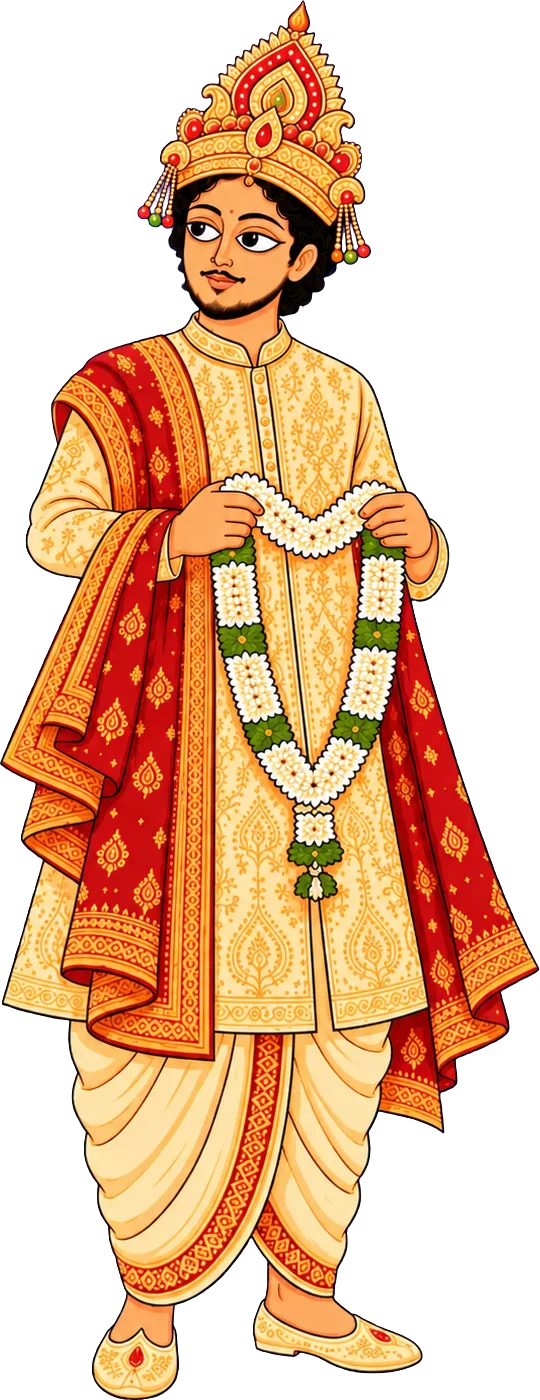
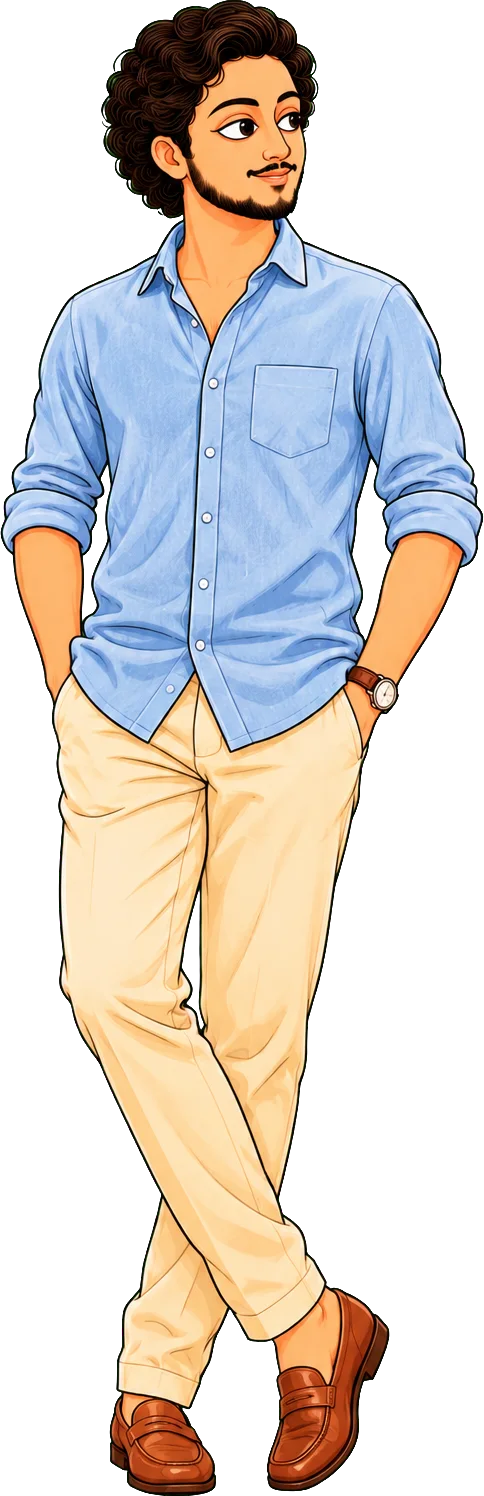
Sangeet, Wedding, Reception and the first page on the new generated art
- Sangeet: fairy-lit garden behind the stage, a dance floor, the dhol and harmonium on laptops
- Wedding: Kolkata and Jamshedpur skyline behind the stage, a red carpet with alpana
- Reception: the hall wall, jasmine strands, the stage drawn small under a silk canopy, flower urns
- First page: the couple in everyday clothes
- Gold sparkles over every night sky; art script knows floors, walls, ledges and tiles

diff --git a/src/scenes/scenes.js b/src/scenes/scenes.js
@@ -172,6 +172,11 @@ export const SCENES = [
     // at the bottom, candle stands at the sides, the couple dancing in front
     id: 'sangeet', sky: STAGE, tone: 'stage', stars: true, text: { top: 250 }, leave: 'cut', hold: 4,
     layers: [
+      // a garden of fairy-lit trees behind the stage, the dance floor in front of it, and on laptops the dhol and
+      // harmonium beside the groom
+      L('sangeet-garden', 1500, 645, { y: 150, z: 1 }),
+      L('sangeet-floor', 2200, 267, { z: 1, full: true, kind: 'ground' }),
+      L('sangeet-music', 420, 189, { y: 40, x: -720, z: 4 }),
       L('sangeet-hanging', 1300, 375, { full: true, ay: 't', y: -12, z: 3 }),
       L('sangeet-stage-small', 1250, 668, { y: 330, z: 2 }),
       L('drape-l', 330, 790, { art: 'sangeet-drape', ax: 'l', x: -60, ay: 't', y: -10, z: 2 }),
@@ -183,6 +188,7 @@ export const SCENES = [
     ],
     play(tl, q, root) {
       slide(tl, q, 'sangeet-hanging', 'up', 0, 1.1)
+      slide(tl, q, 'sangeet-music', 'left', 0.6, 1.1)
       slide(tl, q, 'drape-l', 'left', 0.2, 1.2)
       slide(tl, q, 'drape-r', 'right', 0.2, 1.2)
       slide(tl, q, ['candle-l'], 'left', 0.1, 1.1)
@@ -202,7 +208,9 @@ export const SCENES = [
     layers: [
       L('cloud-l', 380, 167, { art: 'cloud-night', ax: 'l', x: -150, y: 1250, z: 1 }),
       L('cloud-r', 440, 193, { art: 'cloud-night', ax: 'r', x: -190, y: 1080, z: 1, flip: true }),
-      L('carpet', 3400, 255, { z: 2, full: true, kind: 'ground' }),
+      // the bride's Kolkata and the groom's Jamshedpur on the skyline behind the stage, the red carpet with its alpana
+      L('wedding-city-art', 1800, 495, { y: 200, z: 2 }),
+      L('wedding-floor', 2200, 330, { z: 2, full: true, kind: 'ground' }),
       L('wedding-stage-small', 1000, 621, { y: 330, z: 3 }),
       L('wedding-hanging', 1100, 350, { full: true, ay: 't', y: -24, z: 4 }),
       L('drape-l', 330, 842, { art: 'wedding-drape', ax: 'l', x: -60, ay: 't', y: -10, z: 3 }),
@@ -226,27 +234,35 @@ export const SCENES = [
     idle: (q) => [...cloudIdle(q), ...petals(q), ...drapes(q), idle.sway(q, 'banana-l', 1, 3.4, '50% 100%'), idle.sway(q, 'banana-r', 1, 3.8, '50% 100%'), idle.breathe(q, 'wedding-couple')],
   },
   {
-    // the Reception in the same hand: the client's reception stage (redrawn in the site's style) under the night,
-    // lanterns hanging at its sides, the couple in front of it on the carpet, the feast in front
-    id: 'reception', sky: RECEPTION, tone: 'stage', stars: true, text: { top: 170 }, leave: 'fade', hold: 4,
+    // the Reception laid out like Sangeet and Wedding, inside the hotel's hall: the client's reception stage drawn
+    // small, the couple in front of it on the marble floor, the feast in front
+    id: 'reception', sky: RECEPTION, tone: 'stage', stars: true, text: { top: 250 }, leave: 'fade', hold: 4,
     layers: [
-      L('reception-stage-art', 1900, 1275, { y: 0, z: 2 }),
-      L('carpet', 3400, 255, { z: 3, full: true, kind: 'ground' }),
-      L('lantern-l', 300, 417, { art: 'reception-lanterns', x: -410, y: 590, z: 3 }),
-      L('lantern-r', 300, 417, { art: 'reception-lanterns', x: 410, y: 590, z: 3, flip: true }),
+      // the hall's back wall, jasmine strands across the top, the client's stage drawn small on the marble floor,
+      // a silk canopy with lanterns framing it, and flower urns at its two sides
+      L('reception-wall', 2200, 705, { y: 150, z: 1, full: true, kind: 'ground' }),
+      L('reception-hanging', 1300, 410, { full: true, ay: 't', y: -12, z: 3 }),
+      L('reception-floor', 2200, 259, { z: 2, full: true, kind: 'ground' }),
+      L('reception-stage-small', 900, 533, { y: 150, z: 3 }),
+      L('reception-drape', 1700, 848, { y: 110, z: 4 }),
+      L('urn-l', 260, 404, { art: 'reception-urn', x: -440, y: 100, z: 5 }),
+      L('urn-r', 260, 404, { art: 'reception-urn', x: 440, y: 100, z: 5, flip: true }),
       person('reception-groom', 380, 760, -170, 110, 5), person('reception-bride', 354, 760, 170, 110, 6),
       L('reception-table', 620, 300, { y: 40, z: 7 }),
       ...flowers('flowers-white'),
     ],
     play(tl, q, root) {
       slide(tl, q, ['fg-l', 'fg-r'], 'down', 0.3, 1)
-      slide(tl, q, ['lantern-l', 'lantern-r'], 'down', 0.4, 1.2)
+      slide(tl, q, 'reception-hanging', 'up', 0, 1.1)
+      slide(tl, q, 'reception-drape', 'up', 0.2, 1.2)
+      slide(tl, q, 'urn-l', 'left', 0.4, 1.1)
+      slide(tl, q, 'urn-r', 'right', 0.4, 1.1)
       slide(tl, q, 'reception-bride', 'right', 0.8, 1.1)
       slide(tl, q, 'reception-groom', 'left', 1, 1.1)
       slide(tl, q, 'reception-table', 'down', 1.6, 0.9)
       lines(tl, root, 2.7)
     },
-    idle: (q) => [...petals(q), idle.sway(q, 'lantern-l', 1.6, 3.1, '50% 0%'), idle.sway(q, 'lantern-r', 1.6, 2.7, '50% 0%'), idle.breathe(q, 'reception-groom'), idle.lean(q, 'reception-bride', -0.7, 2)],
+    idle: (q) => [...petals(q), idle.breathe(q, 'reception-groom'), idle.lean(q, 'reception-bride', -0.7, 2)],
   },
   {
     // the last page, after the client's reference film: a carved arch on a blue night and a lamp to light with a tap,

diff --git a/src/styles.css b/src/styles.css
@@ -35,6 +35,8 @@ button { font: inherit; color: inherit; cursor: pointer; border: 0; background: 
 /* on wide screens the ground stretches sideways only: keep its horizon, lose some floor */
 .strip.k-ground img { object-fit: cover !important; object-position: center top !important; }
 .strip.at-t img { top: 0; }
+/* the wedding carpet keeps its alpana and loses the plantains drawn at its two far ends */
+#wedding [data-l='wedding-floor'] img { object-position: center bottom !important; }
 .k-frame img { position: static; height: 100% !important; object-fit: fill !important; }
 .stars { position: absolute; inset: 0 0 45% 0; opacity: .8; background:
   radial-gradient(1.4px 1.4px at 12% 18%, #fff, #0000), radial-gradient(1px 1px at 28% 42%, #fff, #0000),
@@ -42,6 +44,11 @@ button { font: inherit; color: inherit; cursor: pointer; border: 0; background: 
   radial-gradient(1.5px 1.5px at 71% 21%, #fff, #0000), radial-gradient(1px 1px at 83% 48%, #fff, #0000),
   radial-gradient(1.2px 1.2px at 93% 10%, #fff, #0000), radial-gradient(1px 1px at 36% 66%, #fff, #0000);
   background-size: 310px 340px; }
+/* a layer of gold sparkles over the night skies, finer than the stars */
+.sparkle { position: absolute; inset: 0 0 35% 0; opacity: .55; background: 50% 0 / min(70cqw, 520px) auto repeat;
+  mask: linear-gradient(#000 60%, #0000); }
+/* the dhol and harmonium need the room a laptop gives beside the dancers */
+@container (max-aspect-ratio: 1/1) { #sangeet [data-l='sangeet-music'] { display: none; } }
 .moon { position: absolute; aspect-ratio: 1; border-radius: 50%; background: #fffbe8; box-shadow: 0 0 calc(60 * var(--u)) calc(18 * var(--u)) #fff2c488; }
 
 /* shown until the real picture for a layer arrives */
@@ -97,8 +104,6 @@ button { font: inherit; color: inherit; cursor: pointer; border: 0; background: 
   /* Sangeet: the flower strands hang a little higher, the words sit a little lower */
   #sangeet [data-l='sangeet-hanging'] { margin-top: calc(-70 * var(--u)); }
   #sangeet .words { --top: 280 !important; }
-  /* Reception: the stage sits lower, so its chandelier stays clear of the address */
-  #reception [data-l='reception-stage-art'] { margin-bottom: calc(-150 * var(--u)); }
   /* Wedding: the toran hangs a little higher and the words sit a little lower, so the bells stay clear of
      them; no sky is left for the moon and clouds */
   #wedding [data-l='wedding-hanging'] { margin-top: calc(-70 * var(--u)); }

diff --git a/src/components/Scene.jsx b/src/components/Scene.jsx
@@ -1,6 +1,7 @@
 import { forwardRef, useEffect, useImperativeHandle, useLayoutEffect, useRef, useState } from 'react'
 import { gsap } from 'gsap'
 import Layer from './Layer.jsx'
+import { artUrl } from '../art/index.js'
 import { makeQ } from '../scenes/motion.js'
 import { drive } from './drive.js'
 
@@ -92,6 +93,7 @@ export default forwardRef(function Scene({ scene, lang, children }, ref) {
       <div className="stage">
         <div className="world">
           {scene.stars && <div className="stars" />}
+          {scene.stars && artUrl('sky-sparkle-tile') && <div className="sparkle" style={{ backgroundImage: `url(${artUrl('sky-sparkle-tile')})` }} />}
           {scene.moon && <div className="moon" style={{ left: `calc(50% + ${scene.moon.x} * var(--u) + var(--dx))`, bottom: `calc(${scene.moon.y} * var(--u))`, width: `calc(${scene.moon.s} * var(--u))` }} />}
           {scene.layers.map((l) => <Layer key={l.id} {...l} />)}
           {scene.own ? children : <div className="words" style={{ '--top': scene.text.top }}><i className="card" data-t="-0.4" />{children}</div>}
